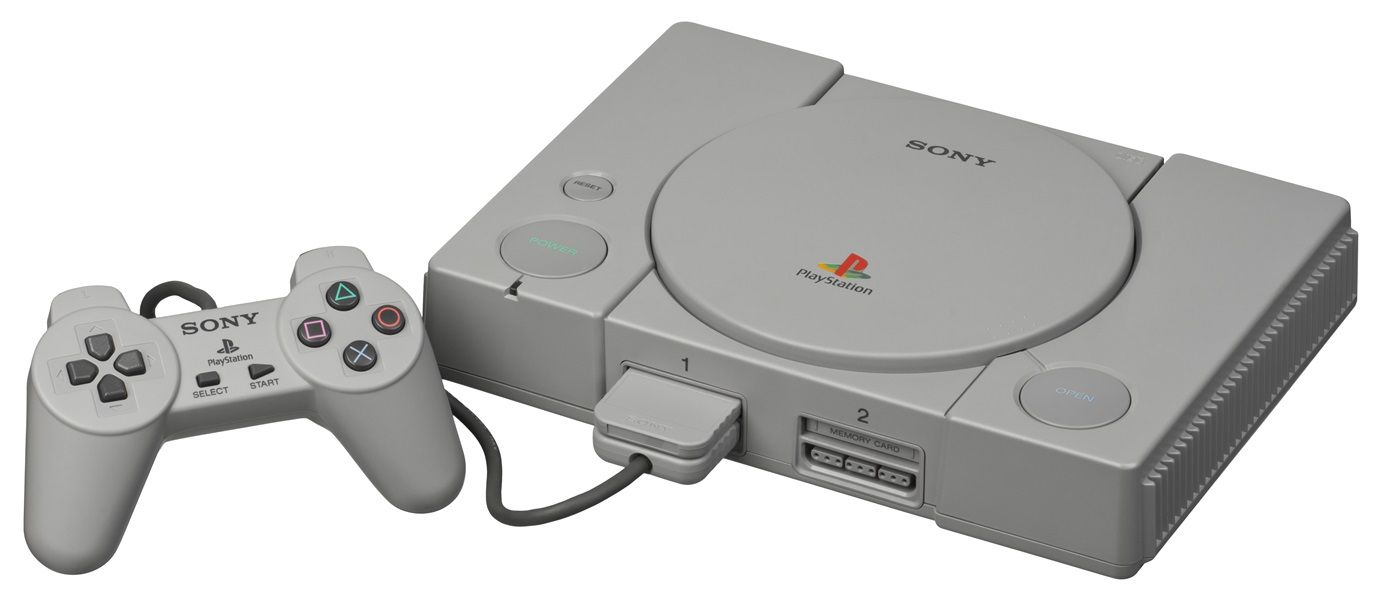
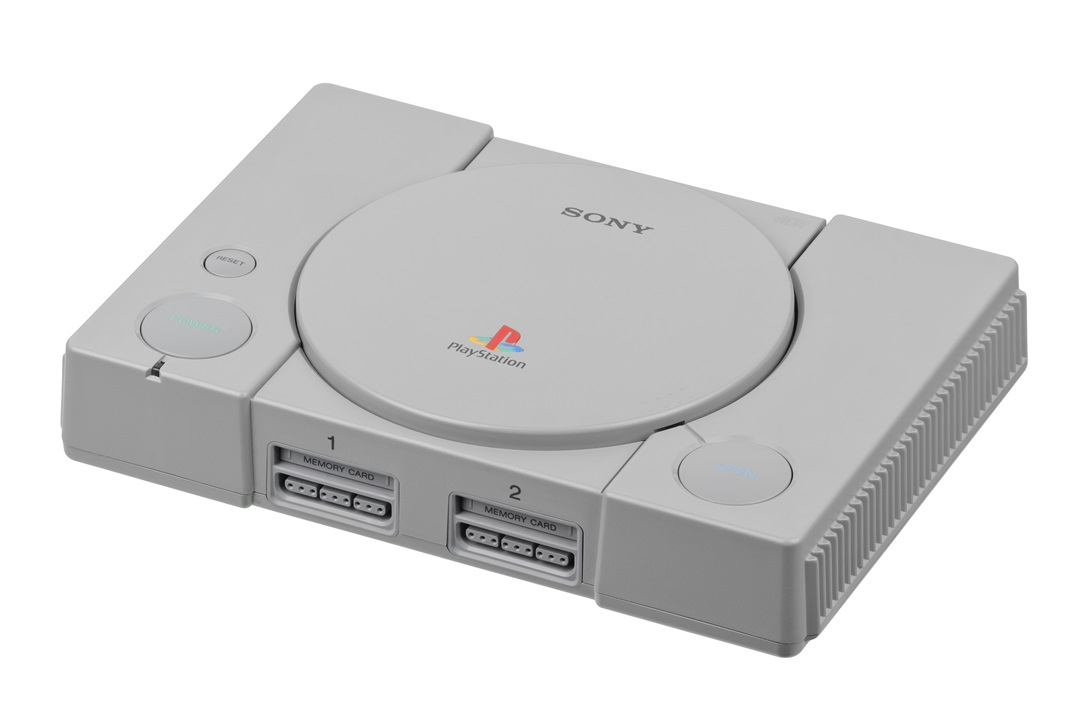
Added some images to timeline

diff --git a/history_video_games/consoles.md b/history_video_games/consoles.md
@@ -31,7 +31,7 @@ and in Europe on September 29, 1995.
 ---
 name: fig-consoles-sony-playstation
 ---
-Sony PlayStation SCPH-1000 (from [Wikipedia](https://en.wikipedia.org/wiki/File:PlayStation-SCPH-1000-with-Controller.jpg)). Credit: [Evan-Amos](https://commons.wikimedia.org/wiki/User:Evan-Amos)
+Sony PlayStation (from [Wikipedia](https://commons.wikimedia.org/wiki/File:Sony-PlayStation-5501-Console-FL.jpg)). Credit: [Evan-Amos](https://commons.wikimedia.org/wiki/User:Evan-Amos)
 ```
 
 (consoles-sony-playstation-ps-one)=
@@ -44,7 +44,7 @@ was released on July 7, 2000.
 ---
 name: fig-consoles-sony-playstation-ps-one
 ---
-Sony PlayStation PS One (from [Wikipedia](https://en.wikipedia.org/wiki/File:PSone-Console-Set-NoLCD.jpg)). Credit: [Evan-Amos](https://commons.wikimedia.org/wiki/User:Evan-Amos)
+Sony PlayStation PS One (from [Wikipedia](https://commons.wikimedia.org/wiki/File:Sony-PSone-Console-FL.jpg)). Credit: [Evan-Amos](https://commons.wikimedia.org/wiki/User:Evan-Amos)
 ```
 
 (consoles-sony-playstation-2)=
@@ -59,7 +59,7 @@ and in Australia on November 30, 2000.
 ---
 name: fig-consoles-sony-playstation-2
 ---
-Sony PlayStation 2 SCPH-30001 (from [Wikipedia](https://en.wikipedia.org/wiki/File:Sony-PlayStation-2-30001-wController-L.jpg)). Credit: [Evan-Amos](https://commons.wikimedia.org/wiki/User:Evan-Amos)
+Sony PlayStation 2 (from [Wikipedia](https://en.wikipedia.org/wiki/File:Sony-PlayStation-2-30001-wController-L.jpg)). Credit: [Evan-Amos](https://commons.wikimedia.org/wiki/User:Evan-Amos)
 ```
 
 (consoles-sony-playstation-2-slimline)=
@@ -72,7 +72,7 @@ was released on October 29, 2004.
 ---
 name: fig-consoles-sony-playstation-2-slimline
 ---
-Sony PlayStation 2 Slimline SCPH-70001 (from [Wikipedia](https://en.wikipedia.org/wiki/File:Sony-PlayStation-2-70001-Console-FL.jpg)). Credit: [Evan-Amos](https://commons.wikimedia.org/wiki/User:Evan-Amos)
+Sony PlayStation 2 Slimline (from [Wikipedia](https://en.wikipedia.org/wiki/File:Sony-PlayStation-2-70001-Console-FL.jpg)). Credit: [Evan-Amos](https://commons.wikimedia.org/wiki/User:Evan-Amos)
 ```
 
 (consoles-sony-playstation-3)=
@@ -86,7 +86,7 @@ and in Europe and Australasia on March 23, 2007.
 ---
 name: fig-consoles-sony-playstation-3
 ---
-Sony PlayStation 3 CECHA01 (from [Wikipedia](https://commons.wikimedia.org/wiki/File:Sony-PlayStation-3-CECHA01-wController-L.jpg)). Credit: [Evan-Amos](https://commons.wikimedia.org/wiki/User:Evan-Amos)
+Sony PlayStation 3 (from [Wikipedia](https://commons.wikimedia.org/wiki/File:Sony-PlayStation-3-CECHA01-wController-L.jpg)). Credit: [Evan-Amos](https://commons.wikimedia.org/wiki/User:Evan-Amos)
 ```
 
 (consoles-sony-playstation-3-slim)=

diff --git a/history_video_games/timeline.md b/history_video_games/timeline.md
@@ -41,13 +41,37 @@ The evolution of the SONY logo from 1955 to 1973 (from [Sony](https://www.sony.c
 ## December 3, 1994
 The [Sony PlayStation](consoles-sony-playstation) is released in Japan.
 
+```{figure} ../images/consoles/sony-playstation-with-controller-memcard.jpg
+---
+name: fig-timeline-sony-playstation-with-controller-memcard-japan
+height: 200px
+---
+Sony PlayStation with controller and memory card (from [Wikipedia](https://en.wikipedia.org/wiki/File:PlayStation-SCPH-1000-with-Controller.jpg)). Credit: [Evan-Amos](https://commons.wikimedia.org/wiki/User:Evan-Amos)
+```
+
 (timeline-1995-09-09)=
 ## September 9, 1995
 The [Sony PlayStation](consoles-sony-playstation) is released in North America.
 
+```{figure} ../images/consoles/sony-playstation-with-controller-memcard.jpg
+---
+name: fig-timeline-sony-playstation-with-controller-memcard-north-america
+height: 200px
+---
+Sony PlayStation with controller and memory card (from [Wikipedia](https://en.wikipedia.org/wiki/File:PlayStation-SCPH-1000-with-Controller.jpg)). Credit: [Evan-Amos](https://commons.wikimedia.org/wiki/User:Evan-Amos)
+```
+
 (timeline-1995-09-29)=
 ## September 29, 1995
 The [Sony PlayStation](consoles-sony-playstation) is released in Europe.
+
+```{figure} ../images/consoles/sony-playstation-with-controller-memcard.jpg
+---
+name: fig-timeline-sony-playstation-with-controller-memcard-europe
+height: 200px
+---
+Sony PlayStation with controller and memory card (from [Wikipedia](https://en.wikipedia.org/wiki/File:PlayStation-SCPH-1000-with-Controller.jpg)). Credit: [Evan-Amos](https://commons.wikimedia.org/wiki/User:Evan-Amos)
+```
 
 (timeline-2000-03-04)=
 ## March 4, 2000
@@ -56,6 +80,14 @@ The [Sony PlayStation 2](consoles-sony-playstation-2) is released in Japan.
 (timeline-2000-07-07)=
 ## July 7, 2000
 The [Sony PS One](consoles-sony-playstation-ps-one), a smaller redesign of the [Sony PlayStation](consoles-sony-playstation), is released.
+
+```{figure} ../images/consoles/sony-playstation-ps-one-with-controller-memcard.jpg
+---
+name: fig-consoles-sony-playstation-ps-one-with-controller-memcard
+height: 200px
+---
+Sony PlayStation PS One with controller and memory card (from [Wikipedia](https://en.wikipedia.org/wiki/File:PSone-Console-Set-NoLCD.jpg)). Credit: [Evan-Amos](https://commons.wikimedia.org/wiki/User:Evan-Amos)
+```
 
 (timeline-2000-10-26)=
 ## October 26, 2000
